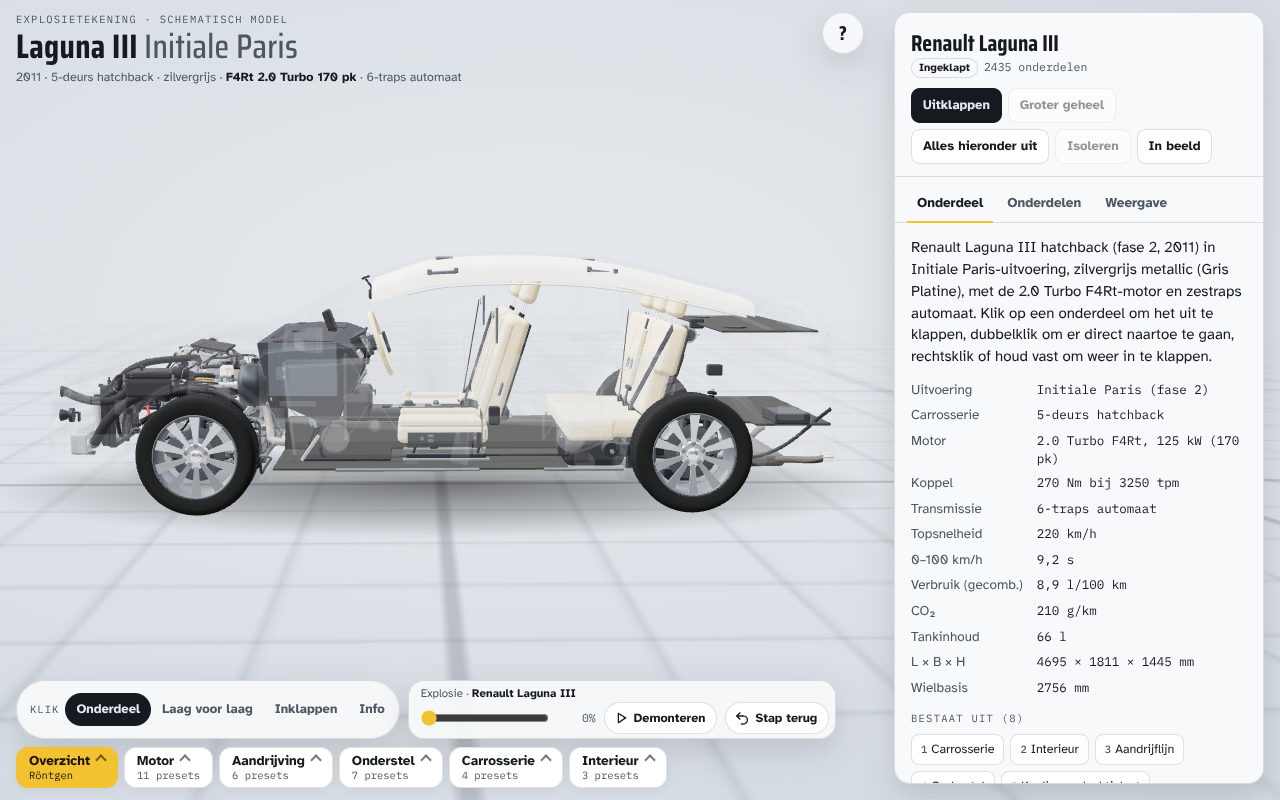
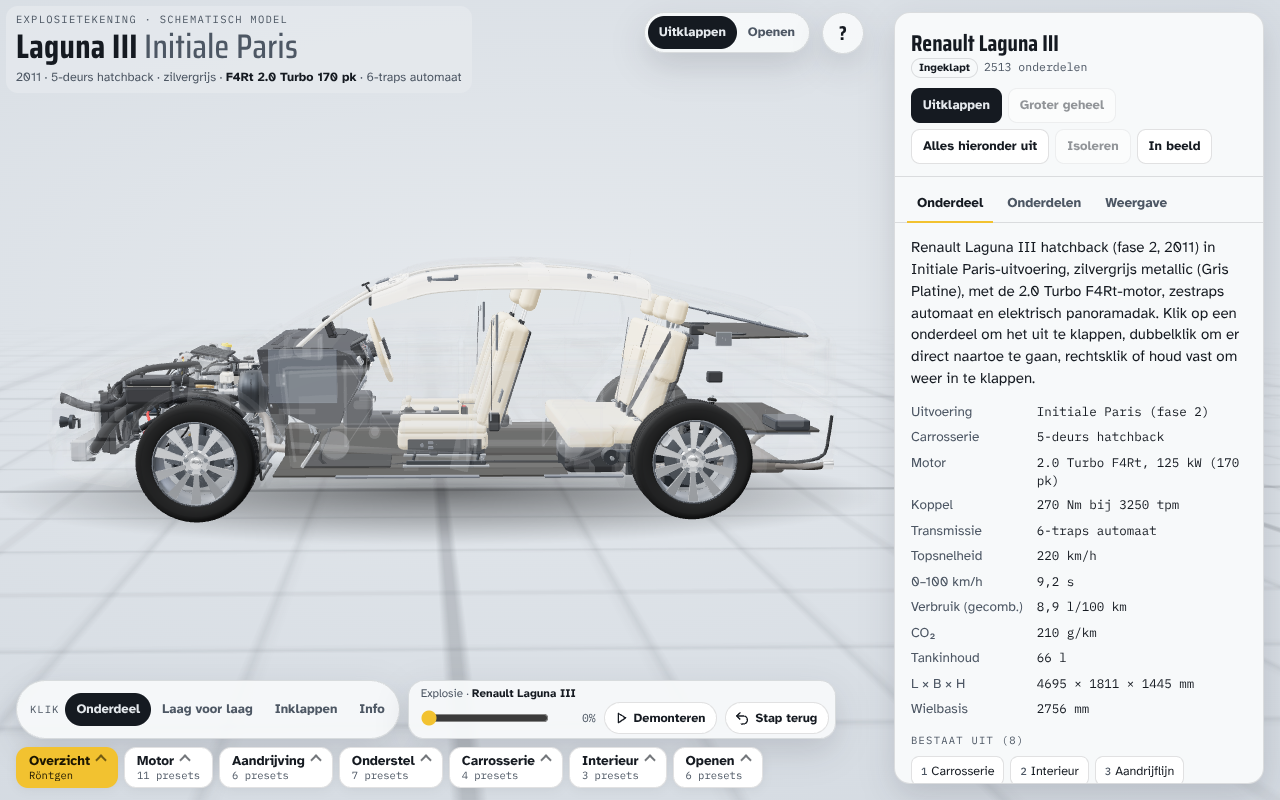
Screenshots opnieuw gemaakt op 3ab6a8d, met het panoramadak en vijf beelden van de modus Openen in de README
Claude-Session: https://claude.ai/code/session_01SweHXh4huqndKbSzFXCsv5

diff --git a/README.md b/README.md
@@ -224,8 +224,15 @@ Voorbereiding, alle scripts en de resultaten staan in [docs/testen.md](docs/test
 | **Automaat** | **Röntgen** |
 | ![Automaat](docs/screenshots/automaat.png) | ![Röntgen](docs/screenshots/rontgen.png) |
 
+| **Openen: alles open** | **Openen: bagageruimte** |
+| ![Alles open](docs/screenshots/openen-alles.png) | ![Bagageruimte](docs/screenshots/openen-bagageruimte.png) |
+| **Openen: motorruimte** | **Openen: panoramadak** |
+| ![Motorruimte](docs/screenshots/openen-motorruimte.png) | ![Panoramadak](docs/screenshots/openen-panoramadak.png) |
+
+Openen, instappen (vier portieren open): [docs/screenshots/openen-instappen.png](docs/screenshots/openen-instappen.png)
+
 Alles uit elkaar: [docs/screenshots/alles-uit-elkaar.png](docs/screenshots/alles-uit-elkaar.png)
 
 Telefoonweergave: [docs/screenshots/mobiel.png](docs/screenshots/mobiel.png)
 
-De screenshots in `docs/screenshots/` tonen de eindstand: ze zijn opnieuw gemaakt uit de bron van `ff42dbd` (dezelfde stand als de build van `index.html` in `5b6cefa`), op 1280 × 800 (`mobiel.png` op 390 × 844 met pixelverhouding 2) en met software-rendering in de container.
+De screenshots in `docs/screenshots/` tonen de stand van golf 4: ze zijn gemaakt uit de bron van `3ab6a8d` met `tools/orkestratie/docshots.py`, via de presets van de pagina, op 1280 x 800 (`mobiel.png` op 390 x 844 met pixelverhouding 2) en met software-rendering in de container.
